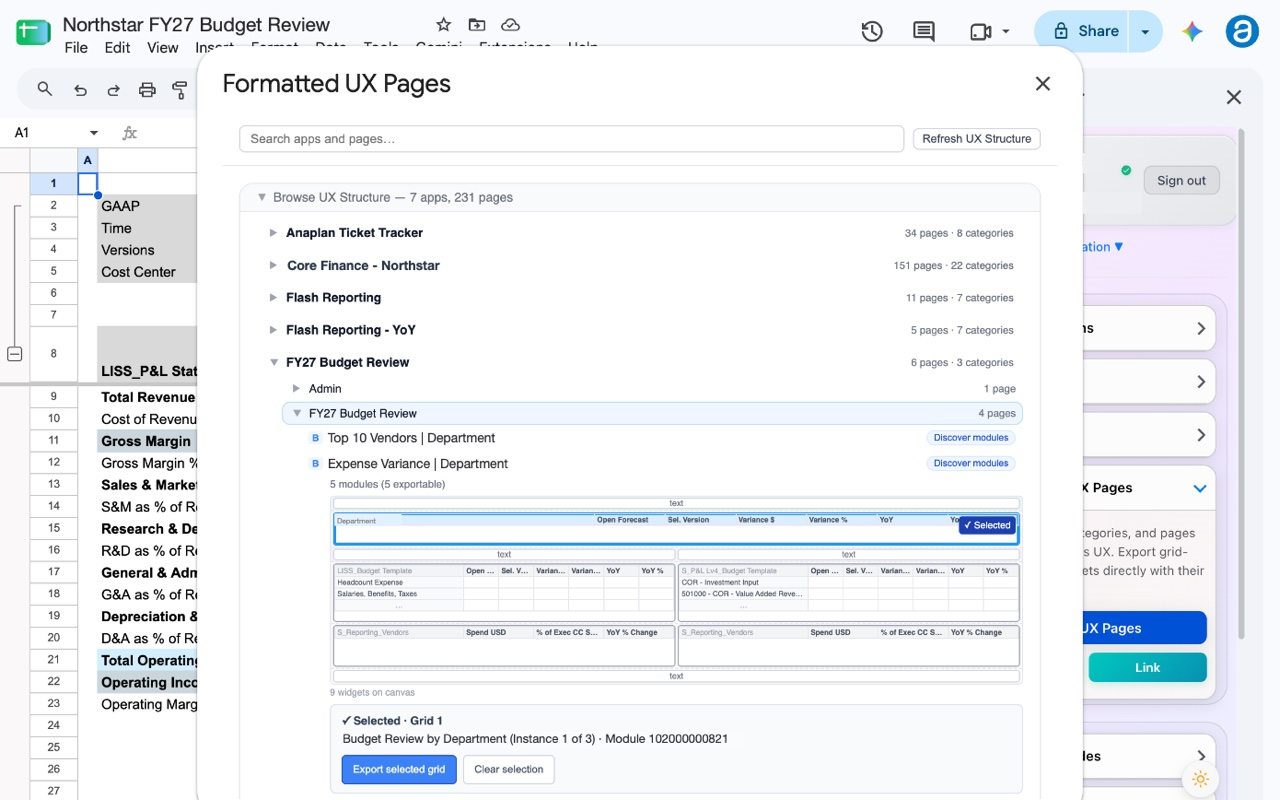
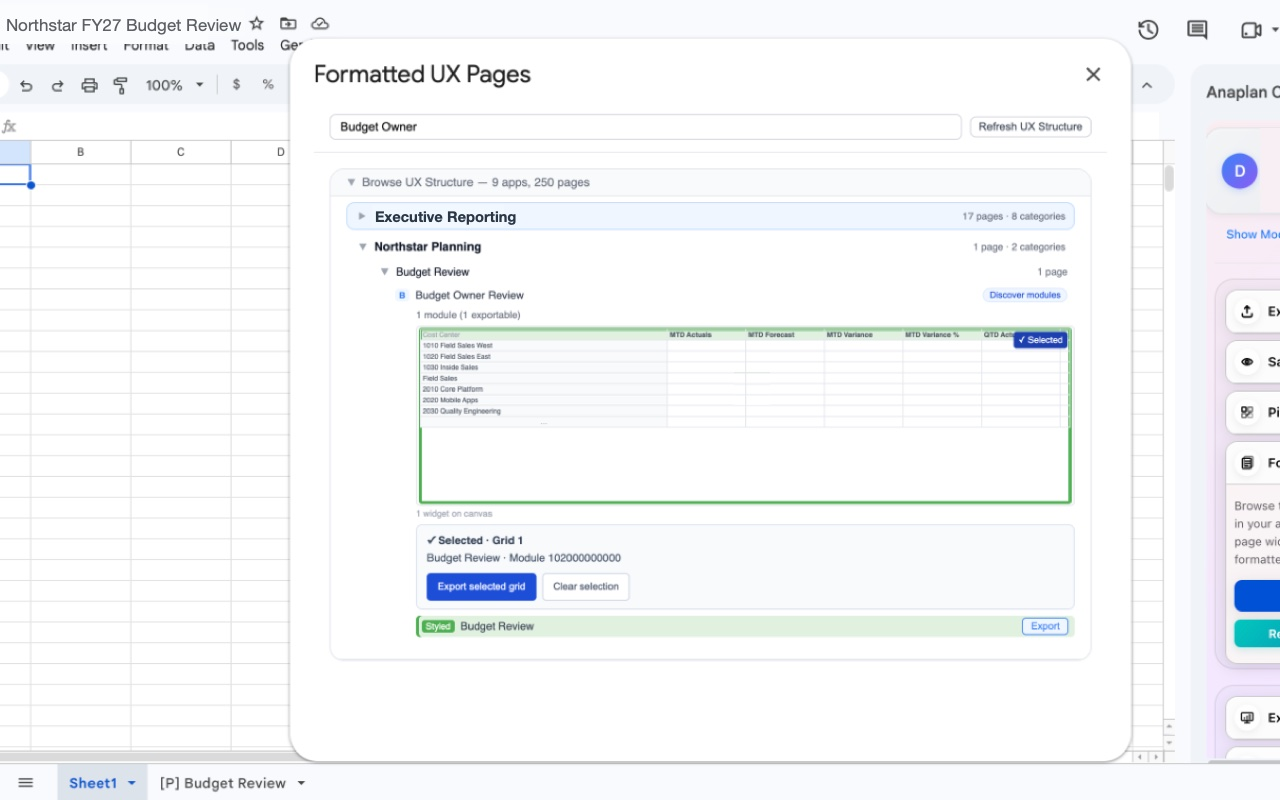
Recapture four pivot-window frames from the fictional Northstar model
Frames 07 to 10 now come straight from the production add-on on the
Northstar Planning capture model (Budget Owner Review board), so every
dimension, level, item and value shown is fictional without retouching:
Cost Center hierarchy on rows, Time and Line Items on columns, GAAP Basis
and Versions as page selectors; Only This on Level 2 gives 6 of 28. The
only image edits are cosmetic (rewritten clipped workbook title, one
relabelled unrelated app row, a filled account-card sliver, a removed
cursor). The Show / Hide frame keeps its earlier capture because the data
preview cannot be queried on that workspace. Alt texts and the two
figures-of-speech that named the old counts are updated; npm test 214/214.

Agent: claude-fable-5-1
Agent-Harness: Claude Code desktop
Agent-Machine: Ryans-MacBook-Pro

diff --git a/index.html b/index.html
@@ -245,14 +245,14 @@
       <ol class="ux-steps">
         <li class="ux-step fade-in">
           <figure>
-            <img src="/assets/product/07-ux-pages-browse.jpg" width="1280" height="800" loading="lazy" decoding="async" alt="Formatted UX Pages dialog listing the apps and pages of a fictional model, with the grids on the Expense Variance page discovered and the main grid selected for export">
+            <img src="/assets/product/07-ux-pages-browse.jpg" width="1280" height="800" loading="lazy" decoding="async" alt="Formatted UX Pages dialog with the Northstar Planning app expanded to its Budget Owner Review page, the page's grid discovered and selected for export">
             <figcaption><span class="ux-step-number">1</span><strong>Browse UX Pages</strong><span>Open an app, pick a page, choose Discover modules and select the grid you want. Combined grids keep their shared page filters.</span></figcaption>
           </figure>
         </li>
         <li class="ux-step fade-in">
           <figure>
-            <img src="/assets/product/08-pivot-window-prefilled.jpg" width="1280" height="800" loading="lazy" decoding="async" alt="Pivot window opened from the UX page with Department on Rows, Time and Line Items on Columns, and the page selectors on Pages, each shown as a card with its item count and selection badge">
-            <figcaption><span class="ux-step-number">2</span><strong>Export selected grid</strong><span>The pivot window opens prefilled with the page's rows, columns, pages and shown items. Adjust anything before it reaches the sheet.</span></figcaption>
+            <img src="/assets/product/08-pivot-window-prefilled.jpg" width="1280" height="800" loading="lazy" decoding="async" alt="Pivot window opened from the UX page with Cost Center on Rows, Time and Line Items on Columns, and GAAP Basis and Versions on Pages, each shown as a card with its item count and selection badge">
+            <figcaption><span class="ux-step-number">2</span><strong>Export selected grid</strong><span>The pivot window opens prefilled with the page's rows, columns, page selectors and shown items. Adjust anything before it reaches the sheet.</span></figcaption>
           </figure>
         </li>
         <li class="ux-step fade-in">
@@ -282,7 +282,7 @@
       </div>
       <div class="pw-feature fade-in">
         <figure class="pw-shot">
-          <img src="/assets/product/09-pivot-window-chips.jpg" width="1280" height="800" loading="lazy" decoding="async" alt="Pivot window after dragging the Time card from Columns into Rows: Rows holds Department and Time, Columns holds Line Items, and Pages holds the page selectors; the Item Selector on the left shows the hierarchy levels and the first departments">
+          <img src="/assets/product/09-pivot-window-chips.jpg" width="1280" height="800" loading="lazy" decoding="async" alt="Pivot window after dragging the Time card from Columns into Rows: Rows holds Cost Center and Time, Columns holds Line Items, and Pages holds GAAP Basis and Versions; the Item Selector on the left shows the hierarchy levels and the three regions">
         </figure>
         <div class="pw-copy">
           <h3>Dimension cards you can move</h3>
@@ -296,11 +296,11 @@
       </div>
       <div class="pw-feature pw-feature-reverse fade-in">
         <figure class="pw-shot">
-          <img src="/assets/product/10-hierarchy-selectors.jpg" width="1280" height="800" loading="lazy" decoding="async" alt="Item Selector for the Department card with Hierarchy Selectors open: All Departments, Division, Department and Cost Center levels, each with Select All, Deselect All and Only This, and Only This applied to the Department level so 20 of 162 items are selected">
+          <img src="/assets/product/10-hierarchy-selectors.jpg" width="1280" height="800" loading="lazy" decoding="async" alt="Item Selector for the Cost Center card with Hierarchy Selectors open: All Cost Centers, Level 1, Level 2 and Cost Center, each with Select All, Deselect All and Only This, and Only This applied to Level 2 so 6 of 28 items are selected">
         </figure>
         <div class="pw-copy">
           <h3>Select a whole hierarchy level</h3>
-          <p><strong>Show Hierarchy Selectors</strong> lists every level of the list with Select All, Deselect All and Only This. One click isolates the 20 departments, and the card's badge updates to 20/162.</p>
+          <p><strong>Show Hierarchy Selectors</strong> lists every level of the list with Select All, Deselect All and Only This. One click isolates the six departments, and the card's badge updates to 6/28.</p>
           <ul>
             <li>Search the tree, or expand it and tick single items</li>
             <li>Default, All and None reset the selection</li>

diff --git a/guide.html b/guide.html
@@ -449,11 +449,11 @@
           </p>
           <div class="guide-shots">
             <figure>
-              <img src="/assets/product/09-pivot-window-chips.jpg" width="1280" height="800" loading="lazy" decoding="async" alt="Pivot window with dimension cards in the Rows, Columns and Pages zones after Time was dragged from Columns into Rows">
+              <img src="/assets/product/09-pivot-window-chips.jpg" width="1280" height="800" loading="lazy" decoding="async" alt="Pivot window with Cost Center and Time cards in Rows, Line Items in Columns and the page selectors in Pages, after Time was dragged from Columns into Rows">
               <figcaption><strong>Dimension cards</strong>Drag a card between Rows, Columns and Pages. Its selection travels with it. Click a card to open its Item Selector.</figcaption>
             </figure>
             <figure>
-              <img src="/assets/product/10-hierarchy-selectors.jpg" width="1280" height="800" loading="lazy" decoding="async" alt="Item Selector with Hierarchy Selectors open, showing Select All, Deselect All and Only This for each level">
+              <img src="/assets/product/10-hierarchy-selectors.jpg" width="1280" height="800" loading="lazy" decoding="async" alt="Item Selector for Cost Center with Hierarchy Selectors open, showing Select All, Deselect All and Only This for each level and Only This applied to Level 2">
               <figcaption><strong>Hierarchy Selectors</strong>Open "Show Hierarchy Selectors" and use Only This to keep a whole level, or search the tree for single items.</figcaption>
             </figure>
             <figure>

diff --git a/docs/ux-pivot-window-20261101.md b/docs/ux-pivot-window-20261101.md
@@ -62,3 +62,16 @@ A small fictional capture model is being built separately so future captures nee
 - `git diff --check` clean.
 
 Rollback: revert the merge commit on `main`; the new images are additive.
+
+## Addendum — recaptured from the fictional Northstar model (same day)
+
+Frames `07`, `08`, `09` and `10` were recaptured from the production add-on on a fictional
+Anaplan model built for this purpose ("Northstar Planning", Budget Owner Review board), so they
+carry no retouched names or figures at all: Cost Center hierarchy (All Cost Centers › Level 1 ›
+Level 2 › Cost Center, 28 items), Time and Line Items on columns, GAAP Basis and Versions as
+page selectors. The only edits are cosmetic: on all four frames the workbook title, clipped by the 1.6 crop,
+was rewritten and the title-bar icons shifted right of it; on `07` the unrelated app row above
+the Northstar app was relabelled, the clipped sliver of the sidebar's account card at the right
+edge was filled, and the mouse cursor was removed from the grid preview. The Show / Hide frame (`11`) keeps its earlier capture because the data
+preview could not be queried on that model's workspace (the Extensions query returns 401 for a
+non-SSO session there). OCR of the served JPGs: 0 real-term hits.
